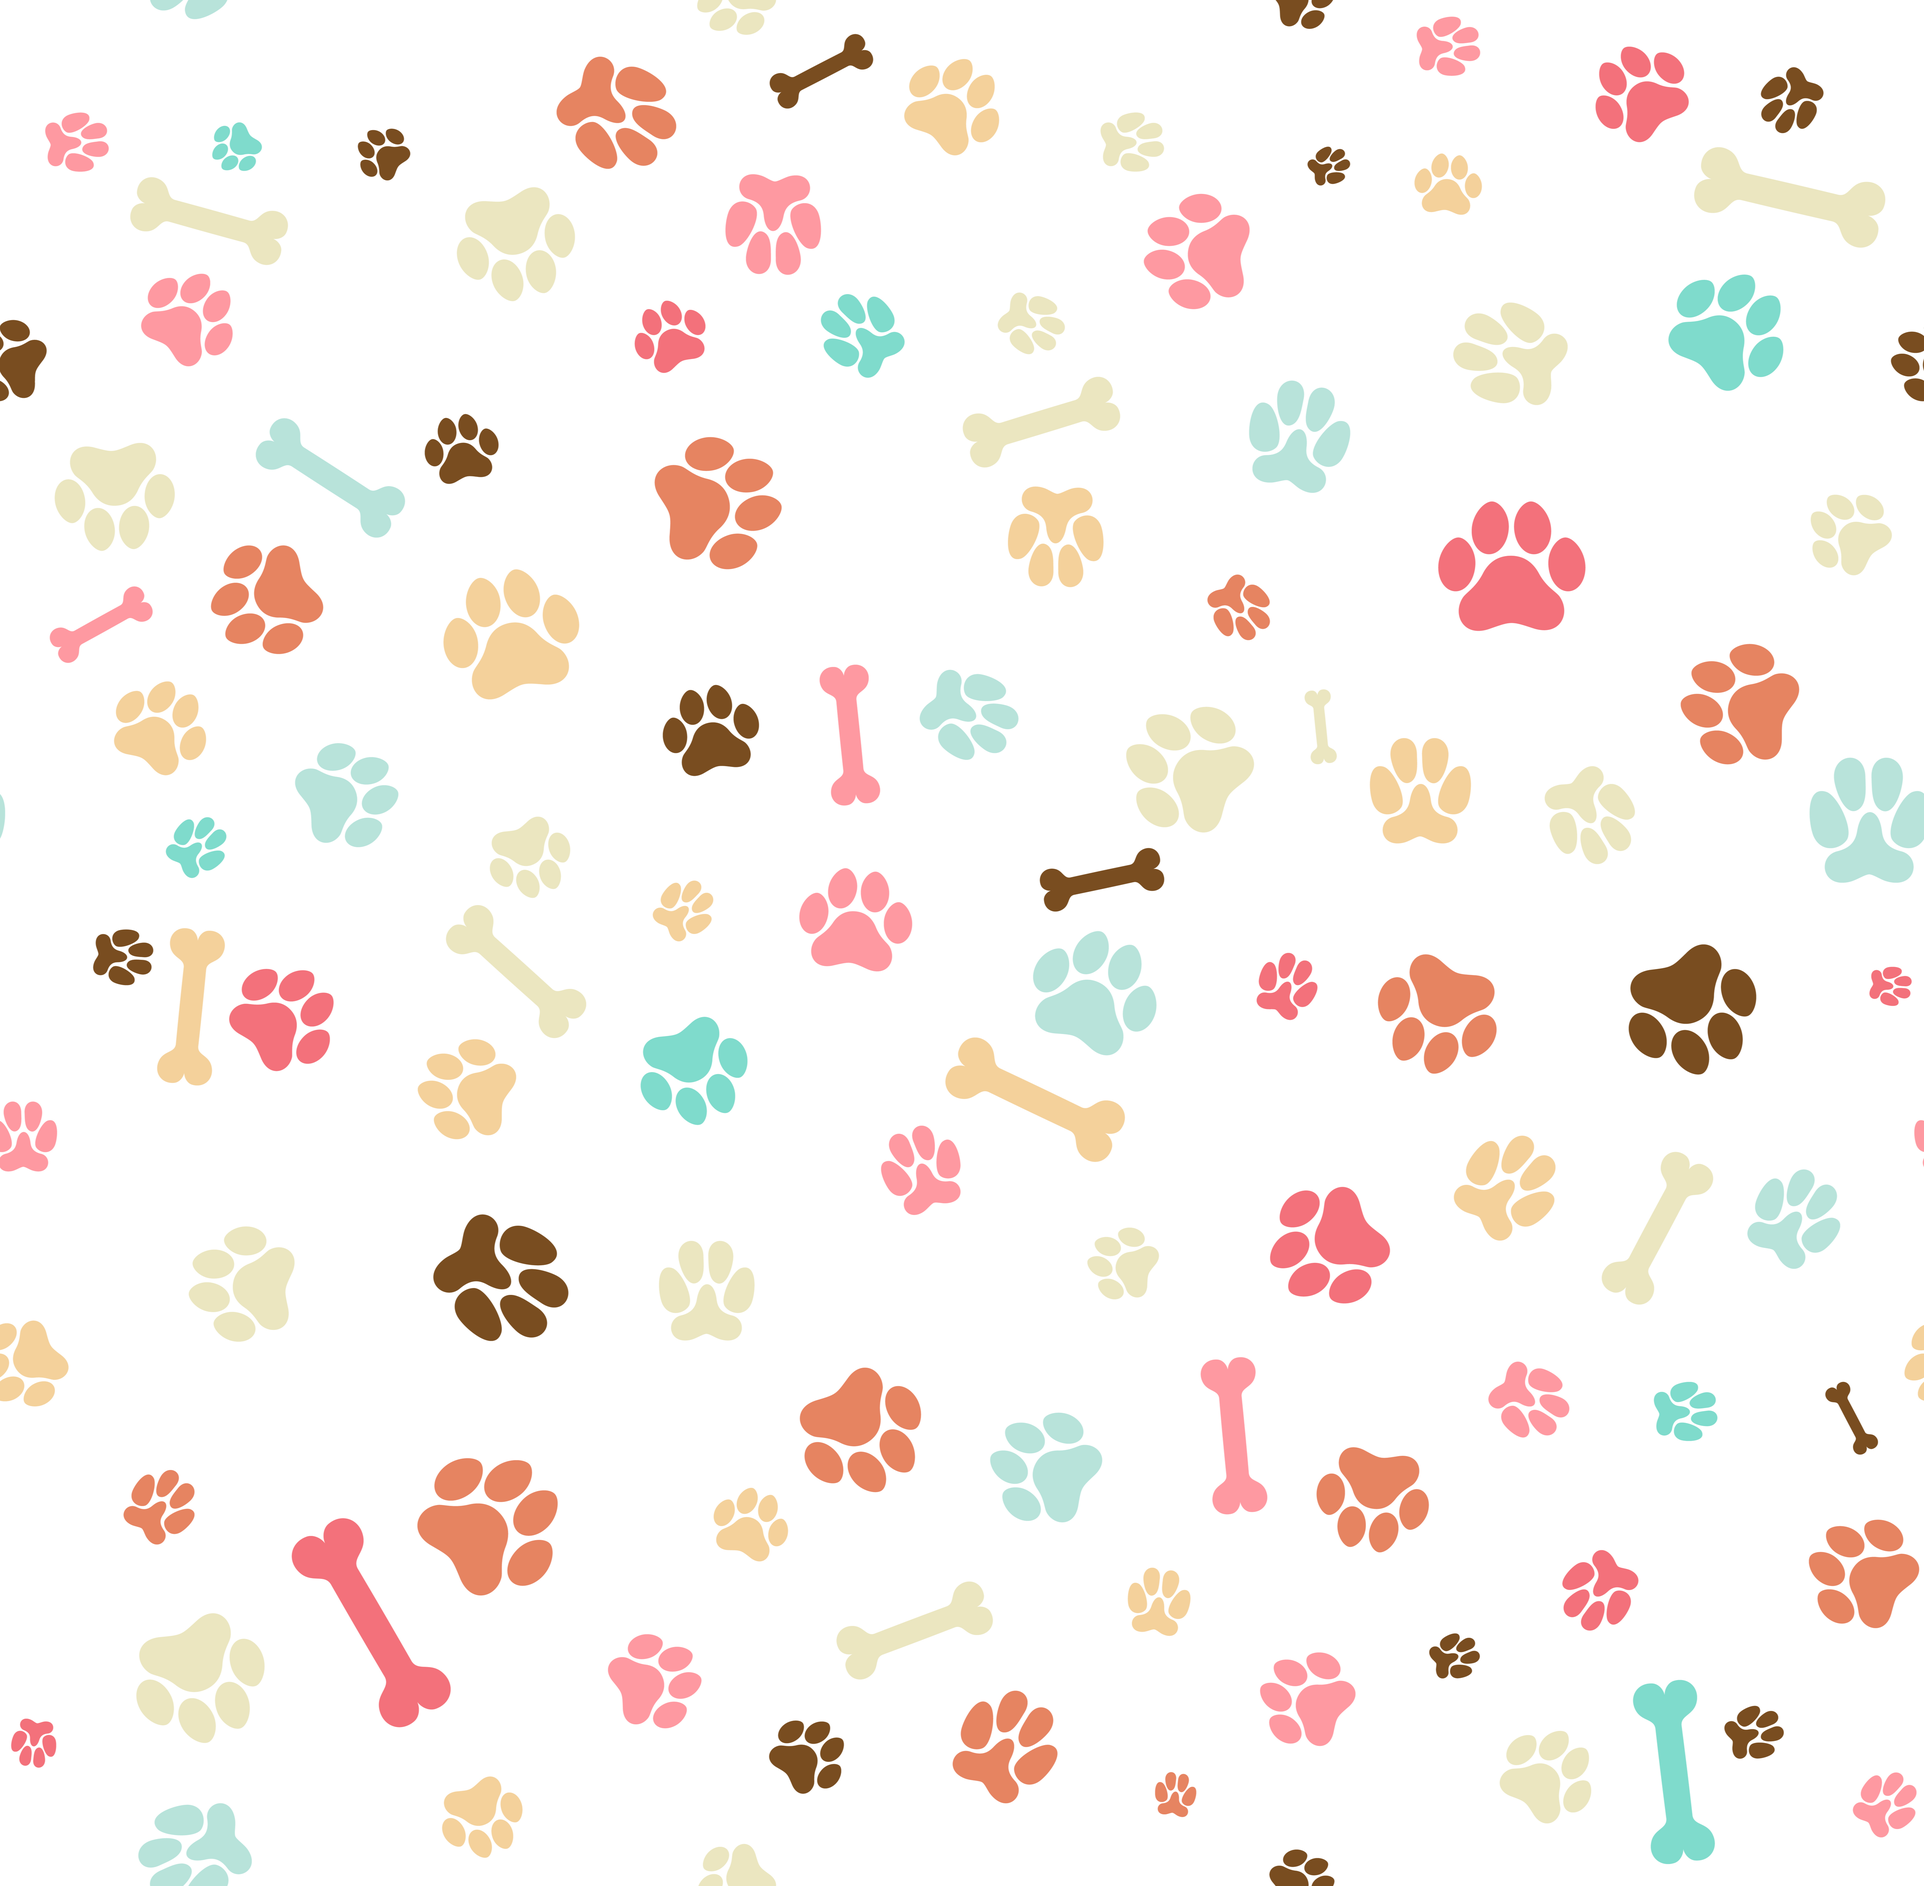
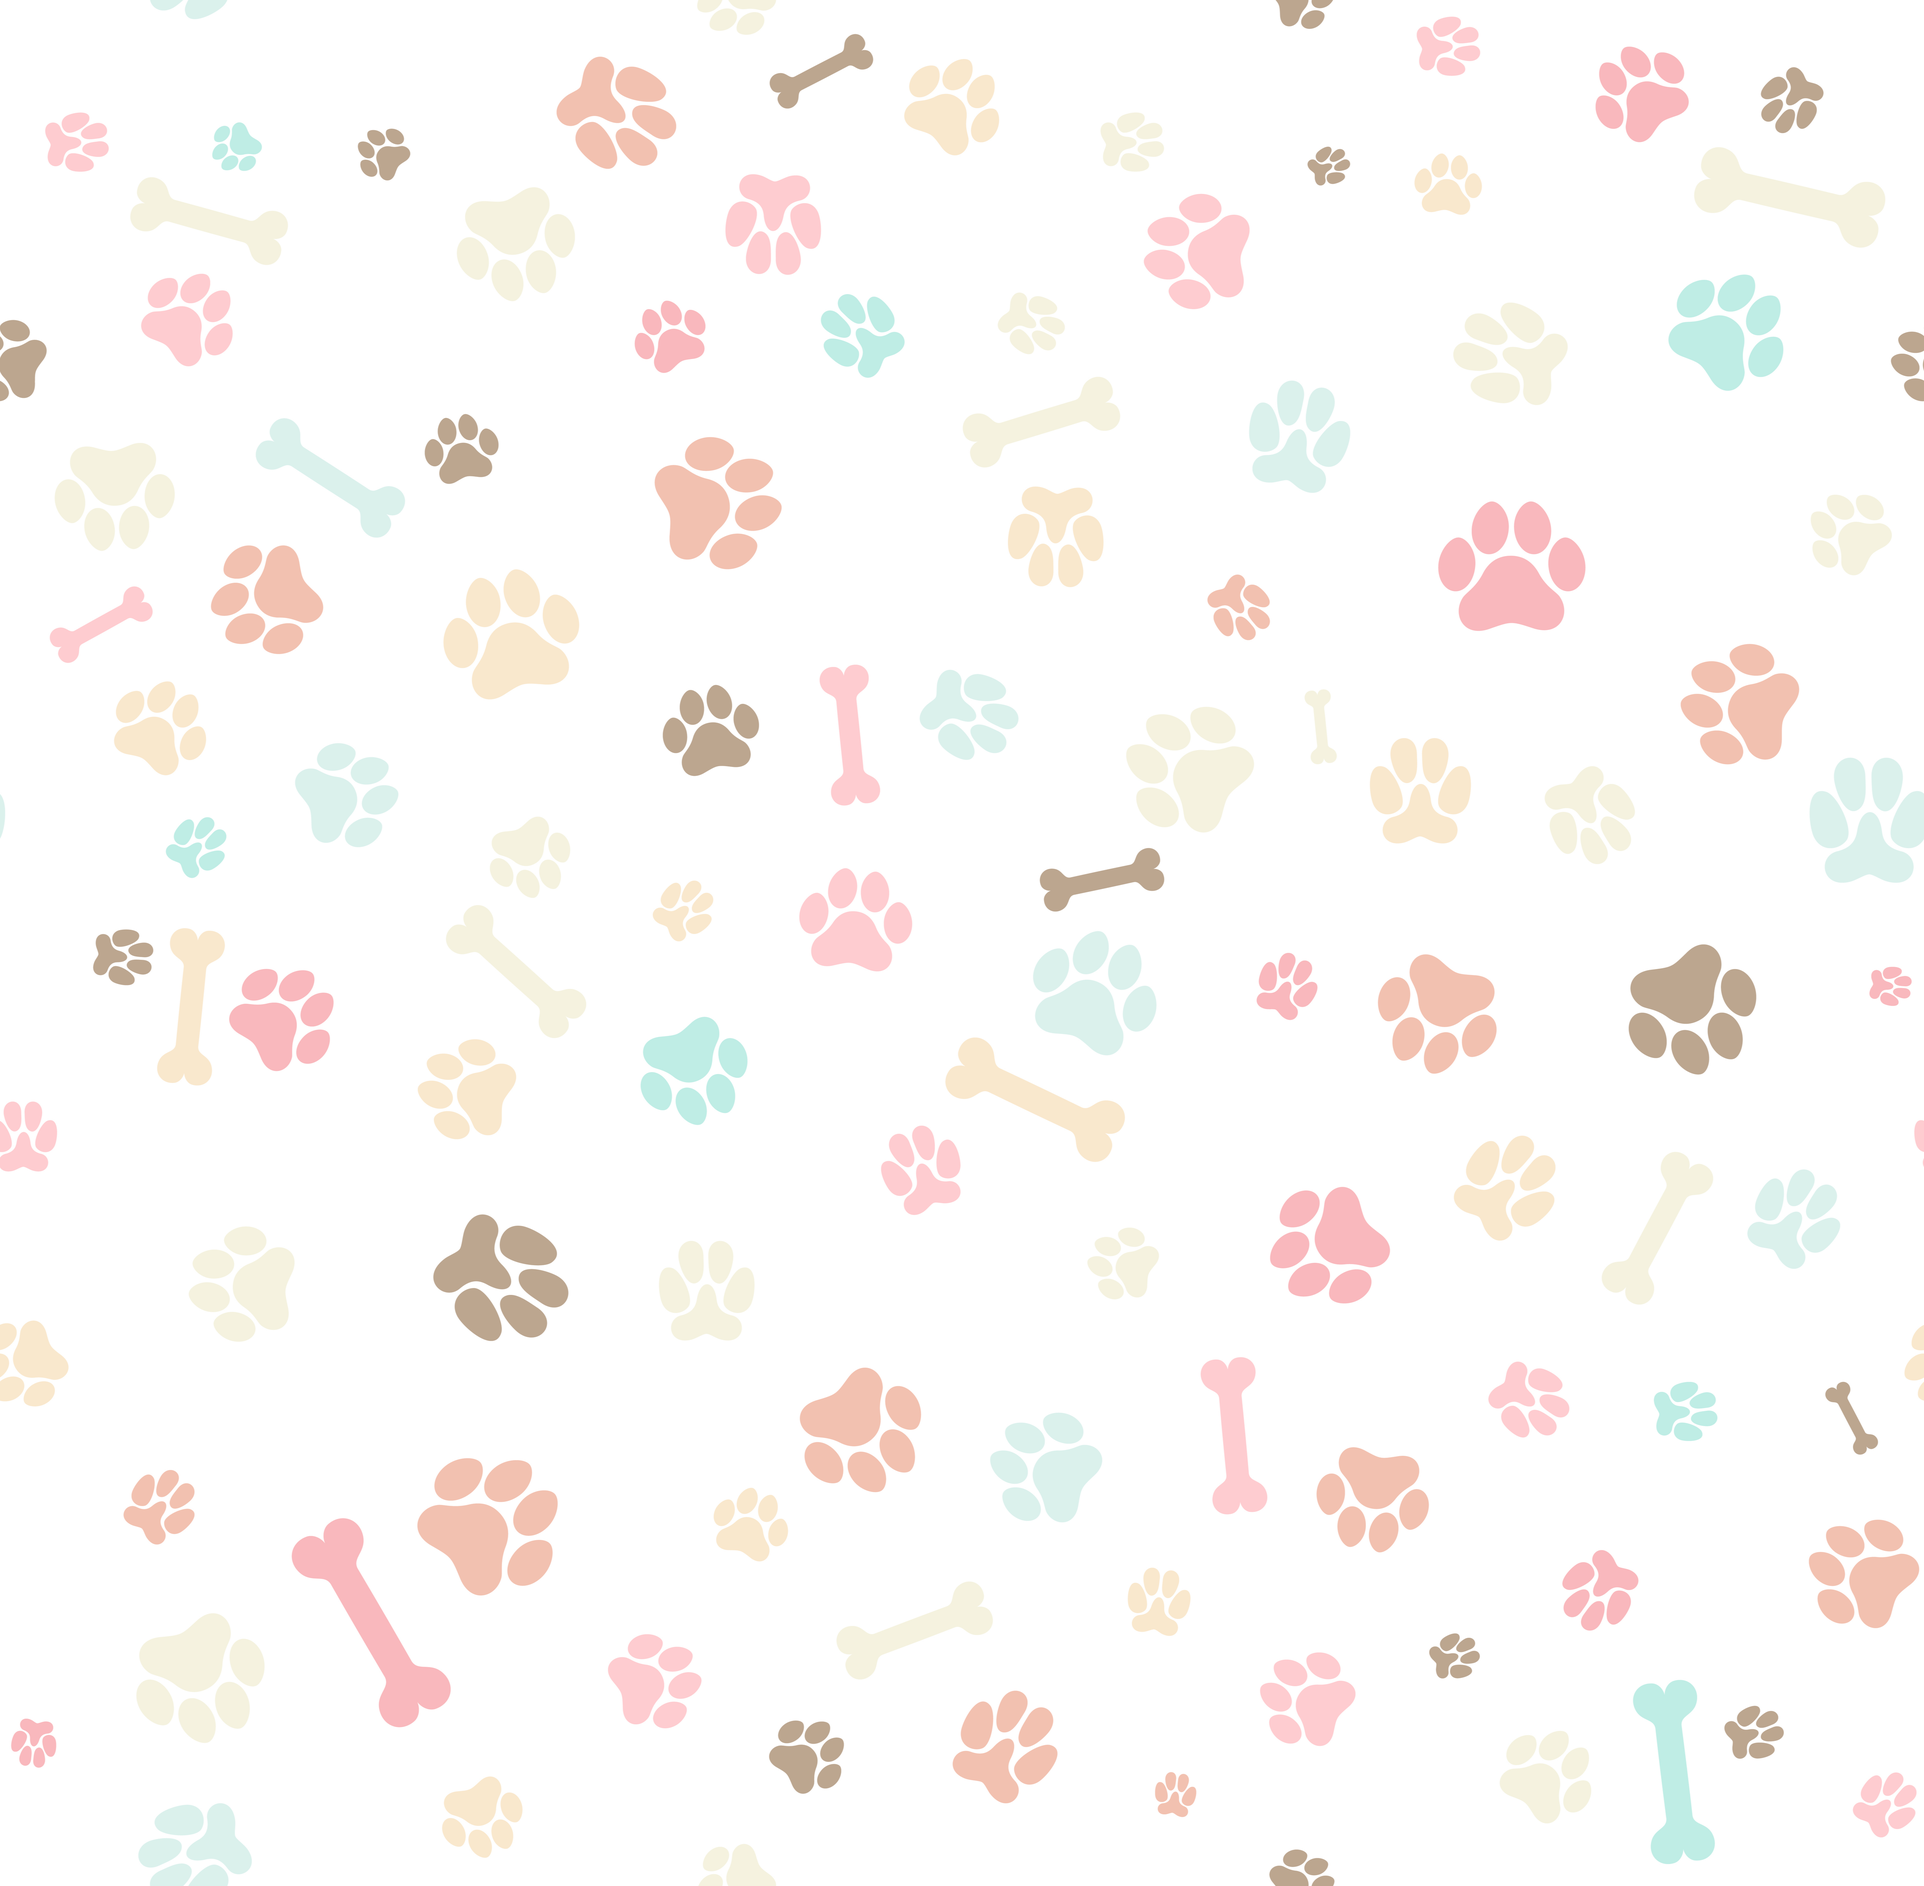
changed opacity of background

diff --git a/script.js b/script.js
@@ -1,14 +1,9 @@
 //1
-const baseURL = 'https://random.dog/woof.json';
-// const baseURL = 'https://api.thedogapi.com/v1/images/search';
-// const key= 'bcc617c9-6dff-4ce8-863d-3b78116bfc0e';
-
-
+const baseURL = 'https://random.dog/woof.json?filter=mp4';
 
 //2 create variables
 let randomButton = document.querySelector('button');
 let image = document.querySelector('img');
-let randomFact = document.querySelector('p');
 
 //3 create events
 randomButton.addEventListener('click', getPicture);
@@ -18,24 +13,14 @@ function getPicture(pic) {
     fetch(baseURL)                          //fetch requires one parameter which is the URL of the resource
         .then(function(randomPic){      //returns info in a json format as a promise
         return randomPic.json();
-        console.log(json)
+        // console.log(json)
     })
     .then(function(json){     //invokes results after promise resolves so we can use the json we get back
         displayResults(json);
-        console.log(json)
+        // console.log(json)
     })
     
 }
-
-// function getFact(fact){
-//     fetch(factURL + key)
-//         .then(function(factoids){
-//         return factoids.json();
-//     }).then(function(data){
-//         displayResults(data);
-//         console.log(data)
-//     })
-// }
 
 //you've pulled info now, display it
 function displayResults(json){      
@@ -45,6 +30,3 @@ function displayResults(json){
     image.alt = 'random dog image';
     
 } 
-// function displayResults(data){
-//     console.log(data.url);
-// }

diff --git a/style.css b/style.css
@@ -3,6 +3,7 @@ body{
     background-size: cover;
     font-family: 'Lucida Sans', 'Lucida Sans Regular', 'Lucida Grande', 'Lucida Sans Unicode', Geneva, Verdana, sans-serif;
     text-align: center;
+    
 }
 
 h1{
@@ -28,7 +29,7 @@ h1{
     margin-right: auto;
     margin-left: auto;
     border-radius: 20px;
-           
+               
 }
 
 .transbox p{
@@ -37,6 +38,8 @@ h1{
     margin-top: 2rem;
     font-family: 'Roboto', sans-serif;
     font-weight: bold;
+    padding-top: 10px;
+    padding-bottom: 10px;
     
 }
 

diff --git a/index.html b/index.html
@@ -15,7 +15,6 @@
 </head>
 
 <body>
-
     <div>
         <h1>Welcome!</h1>
     </div>
